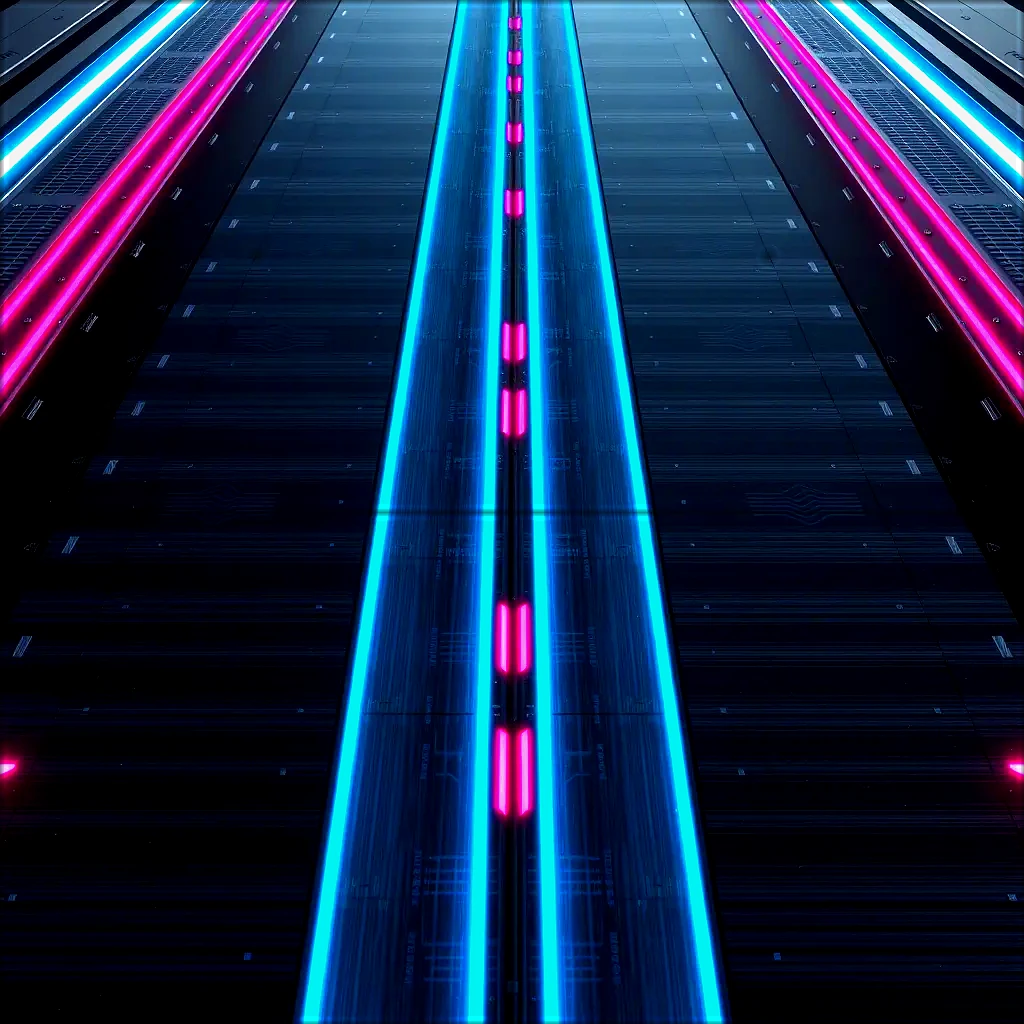
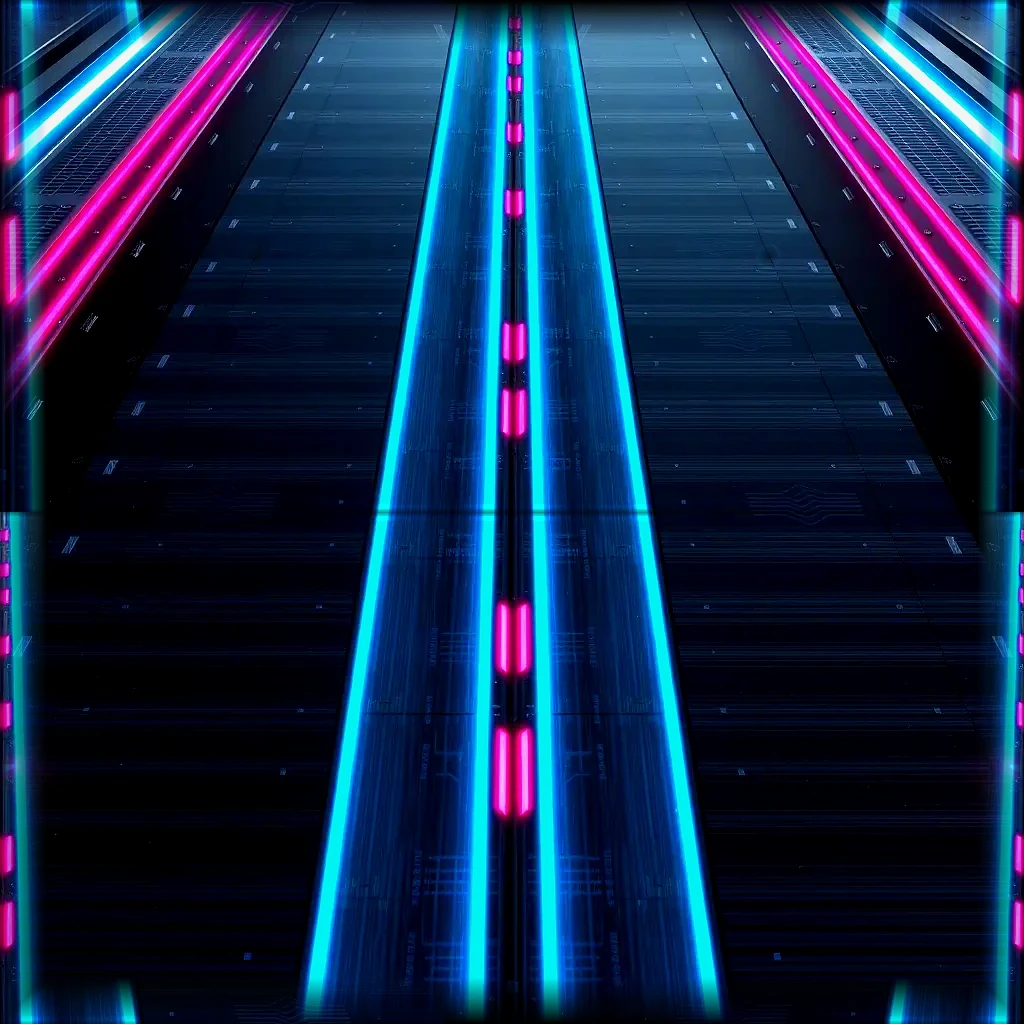
feat: give hostiles an orange identity and a seamless road deck
上一轮视觉复核的三条意见里，两条落到这一版：敌机/炮台和背景同色相（模型
判 6/10，"较杂乱"），赛道每隔 4 米一道硬接缝。

敌机/炮台从"更亮的洋红"改成警示朱橙（#ff713d）。深空背景整片由洋红、紫、
电青构成，唯独没有暖橙，所以辨识度不靠亮度抢，而是靠色相跳出来；同时给
机体加一圈贴甲板的橙色占位环，远距离只有几十像素高时也能一眼看出"这条车道
有东西"，且它跟真实碰撞车道/盘旋高度走，不会误导穿隙判断。无人机涂装把
固有色接管从 0.90 降到 0.66 并往暖橙 tint，让逐部件的枪灰/锈红顶点色重新
参与；装甲、炮台、机翼前缘、翼尖灯、推进器统一到同一族色。

甲板接缝是贴图本身不可平铺：上下边缘落差是内部相邻列的 16 倍，于是按每段
4 米贴一次就变成一道硬线。retile_art.py 只做边缘带交叉淡化（画面内部逐字节
保留，配光/亮度不动），上下接缝 72.1→3.2、左右 12.8→8.5（已到内部相邻列
量级），平均亮度 44.6→44.8。

- src/flight_objects.js：PALETTE 增加 hostile/hostileGlow/rust/gunmetal/cue，
  敌机/炮台换色 + 甲板威胁环
- src/flight_renderer.js：独立 hostile 发光批次，警告灯与占位环改用它
- src/flight_ship.js：追尾视角下机身只有约 90px，改强化轮廓（边缘光 0.32→0.44、
  灯带 0.85→0.96）而不是继续加纹理
- assets/art/road-deck.webp：同样的贴图重铺成可平铺
- tests/flight_objects.test.js：警示箭头断言改用语义色 palette.cue，换色相不会假失败

Changed region(s): [[0.0, 0.0, 1.0, 1.0], [0.4062, 0.9375, 0.7188, 1.0]]

diff --git a/src/flight_objects.js b/src/flight_objects.js
@@ -3,10 +3,16 @@
 // 所有实体在初始化时合并建模；逐帧仅更新实例，不分配几何、材质或临时向量。
 (function attachFlightObjects(scope) {
   // v10 "Neon Void" 调色：敌机走冷灰 + 洋红，奖励色保持高饱和以便一眼分辨。
+  // v13：敌机从"洋红"改到"警示朱橙"。背景整片是洋红/紫/电青，洋红涂装在高速下和星云
+  // 糊成一片（视觉复核：颜色冲突、剪影不突出）；暖橙在深空背景里是唯一没被占用的色相，
+  // 所以机体装甲、灯带、威胁环统一换到这一族，奖励色（翠绿/粉/紫/金/青）不受影响。
   const PALETTE = Object.freeze({
     titanium: 0xb9c0d8, ivory: 0xe8e4f2, graphite: 0x121422, recess: 0x06070e,
     cobalt: 0x3d2a72, crimson: 0x8e1f52, red: 0xff2f6d, emerald: 0x21d29a,
     mint: 0x8dffe0, amber: 0xff4fa8, gold: 0xffd373, violet: 0xc06bff, cyan: 0x35f0ff,
+    hostile: 0xff713d, hostileGlow: 0xffa24a, rust: 0x6d2f16, gunmetal: 0x1d2129,
+    // 语义色：转向箭头/威胁提示用它。测试按名字取色，美术换色相不会造成假失败。
+    cue: 0xffa24a,
   });
   const PICKUP_COLORS = Object.freeze({
     FUEL: PALETTE.emerald, BOOST: PALETTE.amber, SLOW: PALETTE.violet,
@@ -42,12 +48,15 @@
       // v11：无人机重新生成了一份"枪灰装甲 + 洋红单眼 + 密集紧固件"的涂装，固有色接管提到 0.90，
       // 贴图频率提到 0.75（原来 0.52，机身只有一小块区域，等于没细节），并给机体加了洋红边缘光——
       // 它必须一眼从满屏青色里分出来，否则玩家分不清"能撞的"和"能捡的"。
+      // v13：上一版的问题是它分出来的方式是"更亮的洋红"，而背景整片就是洋红。这一版
+      // 把贴图色往暖橙染（tint），固有色接管从 0.90 降到 0.72 让机体上的锈红/枪灰顶点色
+      // 重新参与（顶点色是逐部件写的，被 0.90 的接管基本抹平了），自发光也换到警示橙。
       skins.paint(hostileMetal, THREE, {
         key: 'drone-shell',
-        albedo: { url: './assets/art/drone-shell.webp', scale: 0.75, mix: 0.90, luma: 0.64, gain: 0.68 },
-        emissive: { url: './assets/art/wall-emissive.webp', scale: 0.62, color: 0xff3ea5, gain: 0.95 },
+        albedo: { url: './assets/art/drone-shell.webp', scale: 0.75, mix: 0.66, luma: 0.64, gain: 0.78, tint: 0xff9a5e },
+        emissive: { url: './assets/art/wall-emissive.webp', scale: 0.62, color: 0xff713d, gain: 0.90 },
         bump: 0.7,
-        rim: { color: 0xff5cc0, gain: 0.30, power: 2.4 },
+        rim: { color: 0xff8a4a, gain: 0.34, power: 2.4 },
         rough: 0.35,
       });
     }
@@ -195,7 +204,10 @@
             z + 1.67 * cosine - localX * sine, 0.095, 0.095, 0.028, Math.PI / 2, turn, 0, PALETTE.red);
         }
         emitter.add(x + 1.005 * sine, turretHeight * 0.89, z + 1.005 * cosine,
-          0.15, 0.06, 0.026, 0, turn, 0, PALETTE.red);
+          0.15, 0.06, 0.026, 0, turn, 0, PALETTE.hostile);
+        // v13：机身正下方贴一块暖橙"占位环"。远距离时敌机只有几十像素高，看不清机体朝向，
+        // 但甲板上这一圈光能立刻说明"这个车道有东西"，而且它跟着真正的碰撞车道走。
+        ground.add(x, 0.058, z, 2.05, 2.05, 1, -Math.PI / 2, 0, 0, PALETTE.hostile);
         return;
       }
       // 直接读取固定飞行高度；刚性机顶、灯和风扇保持同一高度，不另做升降动画。
@@ -206,18 +218,22 @@
       const red = Math.round(255 * intensity);
       const tint = (red << 16) | (Math.round(101 * intensity) << 8) | Math.round(78 * intensity);
       emitter.add(x, y + 0.18, z + 1.19, 0.15, 0.066, 0.032, 0, 0, 0, tint);
+      ground.add(x, y - 0.30, z, 1.55, 1.55, 1, -Math.PI / 2, 0, 0, PALETTE.hostile);
       for (let side = -1; side <= 1; side += 2) {
         emitter.add(x + side * 0.96, y - 0.04, z - 0.49, 0.095, 0.095, 0.045,
-          Math.PI / 2, 0, 0, PALETTE.red);
+          Math.PI / 2, 0, 0, PALETTE.hostile);
       }
+      // v13：机体下方的暖橙威胁环。它必须跟随机体一起升到真实盘旋高度——敌人视觉
+      // 一旦留在甲板上，玩家就会照着错误的高度判断能不能钻过去（tests/flight_objects
+      // 的"所有附着灯跟随权威物理高度"就是保这条）。
       if (enemy.state === 'warn' || enemy.state === 'move') {
         const direction = Math.sign(enemy.toLane - enemy.fromLane);
         if (direction) {
           // 两段翼尖灯构成真实方向箭头；即使不依赖闪烁也能读出下一次横移。
           emitter.add(x + direction * 1.17, y + 0.22, z + 0.16,
-            0.20, 0.035, 0.045, 0, 0, -direction * 0.55, PALETTE.amber);
+            0.20, 0.035, 0.045, 0, 0, -direction * 0.55, PALETTE.cue);
           emitter.add(x + direction * 1.17, y + 0.06, z + 0.16,
-            0.20, 0.035, 0.045, 0, 0, direction * 0.55, PALETTE.amber);
+            0.20, 0.035, 0.045, 0, 0, direction * 0.55, PALETTE.cue);
         }
       }
     }
@@ -329,25 +345,27 @@
 
   function buildDrone(b) {
     // 机身前端为红色盾形传感罩，后端分离双风道，避免一个扁平三角形代替整机。
+    // v13：装甲从紫/洋红换成"枪灰 + 锈红"，机翼前缘用警示橙描边——机体不再和星云同色，
+    // 而且远距离时那两条橙色前缘就是剪影本身。
     b.hull([[-0.24, -0.97], [0.24, -0.97], [0.43, 0.28], [0.28, 0.85],
       [0, 1.30], [-0.28, 0.85], [-0.43, 0.28]], 0.30, 0.00, PALETTE.graphite);
     b.hull([[-0.19, -0.76], [0.19, -0.76], [0.29, 0.41], [0, 1.14], [-0.29, 0.41]],
-      0.21, 0.22, PALETTE.crimson);
+      0.21, 0.22, PALETTE.rust);
     b.hull([[-0.12, -0.49], [0.12, -0.49], [0.15, 0.28], [0, 0.67], [-0.15, 0.28]],
-      0.15, 0.415, PALETTE.cobalt);
+      0.15, 0.415, PALETTE.gunmetal);
     b.box(0, 0.185, 1.175, 0.36, 0.14, 0.045, PALETTE.recess);
     for (let side = -1; side <= 1; side += 2) {
       const mirror = (profile) => profile.map(([x, z]) => [side * x, z]);
       b.hull(mirror([[0.27, 0.45], [0.62, 0.57], [1.39, -0.45], [1.31, -0.94],
-        [0.70, -0.69], [0.29, -0.50]]), 0.15, -0.06, PALETTE.cobalt);
+        [0.70, -0.69], [0.29, -0.50]]), 0.15, -0.06, PALETTE.gunmetal);
       b.hull(mirror([[0.54, 0.41], [0.67, 0.48], [1.29, -0.41], [1.22, -0.66],
-        [0.84, -0.47]]), 0.09, 0.065, PALETTE.crimson);
+        [0.84, -0.47]]), 0.09, 0.065, PALETTE.rust);
       b.hull(mirror([[0.54, 0.44], [0.60, 0.57], [1.38, -0.44], [1.33, -0.54]]),
-        0.055, 0.10, PALETTE.ivory);
+        0.055, 0.10, PALETTE.hostileGlow);
       b.box(side * 0.58, 0.11, -0.27, 0.10, 0.08, 0.52, PALETTE.titanium, 0, side * 0.20);
       b.ring(side * 0.96, -0.04, -0.49, 0.27, 0.070, PALETTE.titanium);
       b.ring(side * 0.96, -0.04, -0.67, 0.29, 0.063, PALETTE.graphite);
-      b.cylinder(side * 0.96, -0.04, -0.79, 0.265, 0.18, PALETTE.cobalt, Math.PI / 2, 12);
+      b.cylinder(side * 0.96, -0.04, -0.79, 0.265, 0.18, PALETTE.rust, Math.PI / 2, 12);
       b.cylinder(side * 0.96, -0.04, -0.495, 0.075, 0.14, PALETTE.recess, Math.PI / 2, 10);
       for (let vane = 0; vane < 5; vane += 1) {
         const angle = vane * Math.PI * 2 / 5;
@@ -355,7 +373,7 @@
           -0.51, 0.22, 0.035, 0.075, PALETTE.graphite, 0.15, 0, angle + 0.25);
       }
       b.hull(mirror([[0.35, -0.66], [0.49, -1.14], [0.55, -1.09], [0.49, -0.66]]),
-        0.28, 0.13, PALETTE.crimson);
+        0.28, 0.13, PALETTE.rust);
       for (let vent = 0; vent < 3; vent += 1) {
         b.box(side * 0.21, 0.355, -0.38 + vent * 0.12, 0.075, 0.02, 0.045, PALETTE.titanium);
       }
@@ -363,14 +381,16 @@
   }
 
   function buildTurret(base, head, height) {
+    // v13：炮台和无人机共用一套敌意语言（枪灰结构 + 锈红装甲 + 暖橙描边），
+    // 玩家不需要分别学习"这个是墙、那个是炮"。
     base.cylinder(0, height * 0.045, 0, 1.18, height * 0.09, PALETTE.graphite, 0, 8);
     base.cylinder(0, height * 0.13, 0, 0.88, height * 0.13, PALETTE.titanium, 0, 8);
-    base.box(0, height * 0.33, 0, 1.35, height * 0.37, 1.64, PALETTE.cobalt);
+    base.box(0, height * 0.33, 0, 1.35, height * 0.37, 1.64, PALETTE.gunmetal);
     base.cylinder(0, height * 0.53, 0, 0.88, height * 0.095, PALETTE.graphite, 0, 16);
     base.cylinder(0, height * 0.58, 0, 0.76, height * 0.045, PALETTE.titanium, 0, 16);
     for (let side = -1; side <= 1; side += 2) {
       base.box(side * 0.83, height * 0.20, 0, 0.29, height * 0.32, 1.76, PALETTE.graphite);
-      base.box(side * 0.80, height * 0.12, 0.70, 0.39, height * 0.14, 0.36, PALETTE.crimson);
+      base.box(side * 0.80, height * 0.12, 0.70, 0.39, height * 0.14, 0.36, PALETTE.rust);
       base.box(side * 0.48, height * 0.34, 0.84, 0.16, height * 0.28, 0.10, PALETTE.titanium);
       for (let slot = 0; slot < 4; slot += 1) {
         base.box(side * 0.39, height * (0.24 + slot * 0.047), 0.90, 0.23, 0.07, 0.06, PALETTE.recess);
@@ -378,15 +398,15 @@
     }
     // 炮塔上体以转轴为原点，炮管和观察镜整体随方位角转动。
     head.box(0, height * 0.13, -0.11, 1.83, height * 0.33, 1.93, PALETTE.graphite);
-    head.box(0, height * 0.31, -0.13, 1.39, height * 0.12, 1.55, PALETTE.cobalt);
-    head.box(0, height * 0.245, 0.88, 0.63, height * 0.10, 0.15, PALETTE.crimson);
+    head.box(0, height * 0.31, -0.13, 1.39, height * 0.12, 1.55, PALETTE.gunmetal);
+    head.box(0, height * 0.245, 0.88, 0.63, height * 0.10, 0.15, PALETTE.rust);
     head.box(0, height * 0.26, 0.967, 0.34, 0.16, 0.03, PALETTE.recess);
     for (let side = -1; side <= 1; side += 2) {
-      head.box(side * 0.97, height * 0.11, -0.10, 0.31, height * 0.33, 1.92, PALETTE.crimson);
-      head.box(side * 1.00, height * 0.17, 0.89, 0.13, height * 0.22, 0.09, PALETTE.ivory);
+      head.box(side * 0.97, height * 0.11, -0.10, 0.31, height * 0.33, 1.92, PALETTE.rust);
+      head.box(side * 1.00, height * 0.17, 0.89, 0.13, height * 0.22, 0.09, PALETTE.hostileGlow);
       head.cylinder(side * 0.46, height * 0.07, 1.04, 0.21, 0.94, PALETTE.titanium, Math.PI / 2, 10);
       head.cylinder(side * 0.46, height * 0.07, 1.55, 0.25, 0.27, PALETTE.graphite, Math.PI / 2, 8);
-      head.ring(side * 0.46, height * 0.07, 1.69, 0.18, 0.028, PALETTE.crimson);
+      head.ring(side * 0.46, height * 0.07, 1.69, 0.18, 0.028, PALETTE.rust);
       head.cylinder(side * 0.46, height * 0.07, 1.675, 0.135, 0.016, PALETTE.recess, Math.PI / 2, 10);
       for (let fin = 0; fin < 5; fin += 1) {
         head.box(side * 1.135, height * (0.012 + fin * 0.038), -0.21,

diff --git a/src/flight_renderer.js b/src/flight_renderer.js
@@ -300,7 +300,11 @@
     // v10：车道边缘是最强的水平引导线，换成高亮电青。
     // v12：0.92→0.72。全屏霓虹的视觉复核结论是"可走区域也在发光"，引导线不再是最亮的东西
     // 之后，墙的剪影和洋红警示带才重新拥有对比度。
-    glow('lane', 0x35f0ff, 0.72);
+    glow('lane', 0x35f0ff, 0.66);
+    // v13：危险物独立出"警示朱橙"。深空背景整片由洋红/紫/电青构成，唯独没有暖橙，
+    // 所以敌机和炮台不再靠"更亮的洋红"（那等于和星云抢亮度），而是靠色相跳出来：
+    // 翼尖灯、推进器、威胁环、炮台警戒带统一换成这个色相，和背景的冷色相区隔。
+    glow('hostile', 0xff713d);
 
     // 所有跑道和障碍按材质合批；长赛道不会按块创建对象或累积资源。
     function makeBatch(name, geometry, material, capacity = 2200) {
@@ -367,6 +371,7 @@
     const dimBatch = makeBatch('guidance_seams', box, materials.cyanDim, 4000);
     const amberBatch = makeBatch('warning_lights', box, materials.amber, 2200);
     const redBatch = makeBatch('hazard_lights', box, materials.red, 2200);
+    const hostileBatch = makeBatch('hostile_warning_lights', box, materials.hostile, 1600);
     const whiteBatch = makeBatch('weapon_tracers', box, materials.white, 160);
     const jewelBatch = makeBatch('energy_crystals', octahedron, materials.white, 500);
     const collarBatch = makeBatch('pickup_collars', torus, materials.white, 800);
@@ -408,7 +413,7 @@
     const droneWingBatch = makeBatch('enemy_swept_wings', horizontalHull([
       [0, 0.94], [0.30, 0.64], [1.26, -0.44], [1.08, -0.96], [0.28, -0.52],
       [0, -0.88], [-0.28, -0.52], [-1.08, -0.96], [-1.26, -0.44], [-0.30, 0.64],
-    ], 0.12, 0.019), materials.armor, 120);
+    ], 0.12, 0.019), materials.enemyArmor, 120);
     // 传感眼独立批次：逐帧实例色闪烁不会污染共享红灯批次的其它实例。
     const droneEyeBatch = makeBatch('drone_sensor_eyes', box, materials.red, 160);
     for (const batch of [enemyHullBatch, droneHullBatch, droneWingBatch, engineBatch]) batch.mesh.castShadow = true;
@@ -988,7 +993,7 @@
           engineBatch.add(x + side * 0.53, height * 0.72, z + 1.68, 0.16, 1.8, 0.16, Math.PI / 2);
           engineBatch.add(x + side * 0.53, height * 0.72, z + 2.12, 0.24, 0.24, 0.24, Math.PI / 2);
           redBatch.add(x + side * 0.53, height * 0.72, z + 2.61, 0.17, 0.17, 0.03);
-          amberBatch.add(x + side * hullWidth * 0.46, height * 0.65, z + 1.99, 0.055, height * 0.35, 0.02);
+          hostileBatch.add(x + side * hullWidth * 0.46, height * 0.65, z + 1.99, 0.055, height * 0.35, 0.02);
           for (let fin = 0; fin < 3; fin += 1) {
             edgeBatch.add(x + side * hullWidth * 0.43, height * (0.55 + fin * 0.075), z + 1.91,
               hullWidth * 0.13, 0.075, 0.16);
@@ -996,7 +1001,7 @@
         }
         // 底部琥珀警戒环标出固定炮台的占地区域，低飞掠过时仍有危险提示。
         collarBatch.add(x, 0.07, z, hullWidth * 0.82, hullWidth * 0.82, hullWidth * 0.82,
-          -Math.PI / 2, 0, 0, 0xffc36b);
+          -Math.PI / 2, 0, 0, 0xff713d);
       } else {
         // 简化模型与精细模型读取同一物理高度，不能只升起外观而把命中点留在地面。
         const altitude = Number.isFinite(enemy.altitude) ? Math.max(0, enemy.altitude) : 0;
@@ -1014,19 +1019,21 @@
         edgeBatch.add(x, y + 0.26, z + 1.03, 0.09, 0.025, 0.41);
         // 琥珀翼尖灯把翼展轮廓从深色星云背景里托出来。
         for (const side of [-1, 1]) {
-          amberBatch.add(x + side * 1.24, y - 0.04, z - 0.50, 0.085, 0.05, 0.17);
+          hostileBatch.add(x + side * 1.24, y - 0.04, z - 0.50, 0.085, 0.05, 0.17);
         }
+        // v13：甲板占位环，和 flight_objects 的敌机提示保持同一语言。
+        collarBatch.add(x, 0.062, z, 1.62, 1.62, 1.62, -Math.PI / 2, 0, 0, 0xff713d);
         for (const side of [-1, 1]) {
           enemyHullBatch.add(x + side * 0.91, y - 0.08, z - 0.47, 0.31, 0.33, 1.22);
           engineBatch.add(x + side * 0.91, y - 0.12, z - 1.13, 0.14, 0.22, 0.14, Math.PI / 2);
-          cyanBatch.add(x + side * 0.91, y - 0.12, z - 1.26, 0.13, 0.13, 0.10);
+          hostileBatch.add(x + side * 0.91, y - 0.12, z - 1.26, 0.13, 0.13, 0.10);
           edgeBatch.add(x + side * 0.75, y - 0.008, z - 0.03, 0.048, 0.04, 0.89, 0, side * 0.72);
         }
         if (enemy.state === 'warn' || enemy.state === 'move') {
           const side = Math.sign(enemy.toLane - enemy.fromLane);
           if (side) {
-            amberBatch.add(x + side * 1.3, y + 0.10, z, 0.11, 0.15, 0.70);
-            amberBatch.add(x + side * 1.48, y + 0.10, z + 0.25, 0.34, 0.15, 0.12, 0, side * 0.65);
+            hostileBatch.add(x + side * 1.3, y + 0.10, z, 0.11, 0.15, 0.70);
+            hostileBatch.add(x + side * 1.48, y + 0.10, z + 0.25, 0.34, 0.15, 0.12, 0, side * 0.65);
           }
         }
       }

diff --git a/src/flight_ship.js b/src/flight_ship.js
@@ -34,11 +34,14 @@
         // 所以这一版船体贴图重画成"骨白装甲 + 珊瑚红横贯赛道条纹 + 电青边条 + 密集板缝"，
         // 混入提到 0.68，并加上假凹凸与青色边缘光——机身在这个满屏霓虹的世界里要靠
         // 自己的明暗层次"立"出来，而不是被环境光洗平。
+        // v13：追尾相机下船体只有约 90px 高，贴图细节到这个尺寸已经读不出来，所以这轮不
+        // 再加纹理，而是强化"轮廓"：边缘光 0.32→0.44、青色灯带 0.85→0.96，让机身在满屏
+        // 冷色背景前靠一圈亮边维持剪影。
         skin('ceramic', {
           albedo: { url: './assets/art/ship-hull.webp', scale: 0.46, mix: 0.68, luma: 0.52, gain: 0.62 },
-          emissive: { url: './assets/art/ship-emissive.webp', scale: 0.46, color: 0x6ef2ff, gain: 0.85 },
+          emissive: { url: './assets/art/ship-emissive.webp', scale: 0.46, color: 0x6ef2ff, gain: 0.96 },
           bump: 0.55,
-          rim: { color: 0x8ef6ff, gain: 0.32, power: 2.6 },
+          rim: { color: 0x8ef6ff, gain: 0.44, power: 2.6 },
           rough: 0.3,
         });
         skin('ivory', {

diff --git a/tests/flight_objects.test.js b/tests/flight_objects.test.js
@@ -97,7 +97,7 @@ test('drone geometry and all attached lights follow authoritative physical altit
 test('low and high patrols keep horizontal arrowheads readable at a fixed altitude', () => {
   const h = harness();
   // 警示箭头颜色取自模块导出的调色板：改美术方向不该让这条断言假失败。
-  const cueColor = h.Skyroads.flightObjects.palette.amber;
+  const cueColor = h.Skyroads.flightObjects.palette.cue;
   for (const altitude of [0, 720]) {
     for (const state of ['warn', 'move']) {
       for (const direction of [-1, 1]) {
